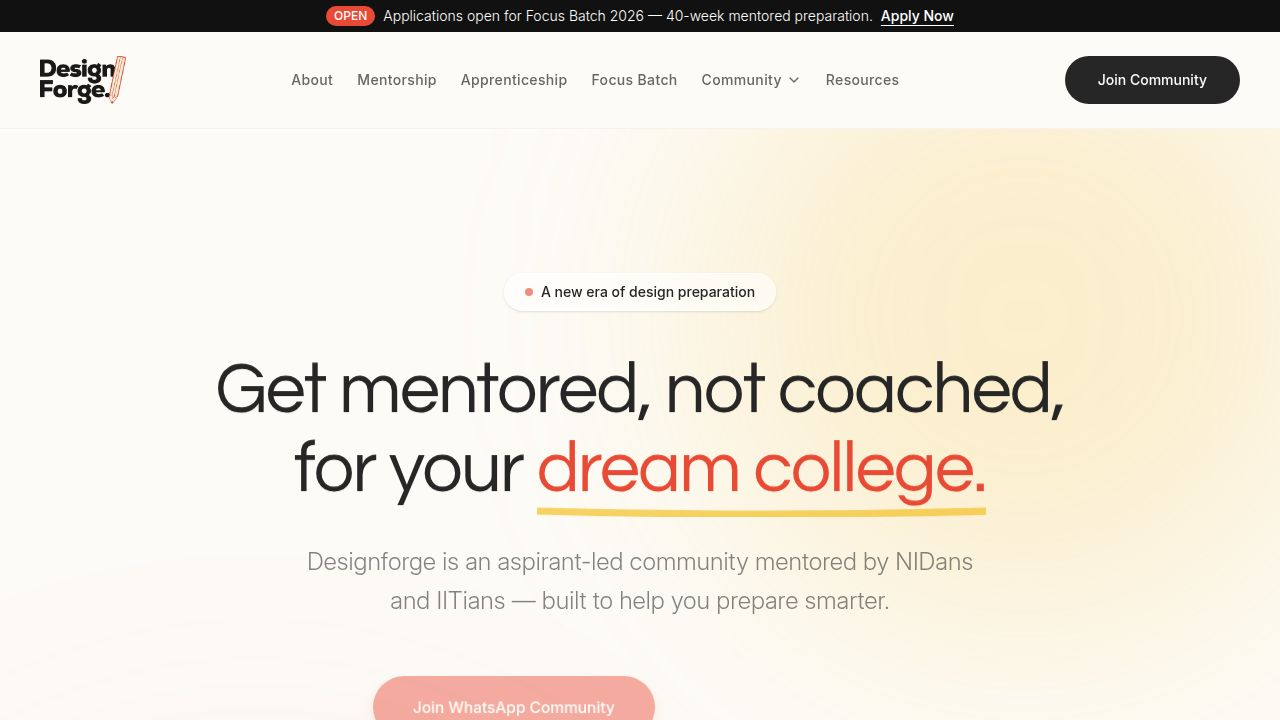
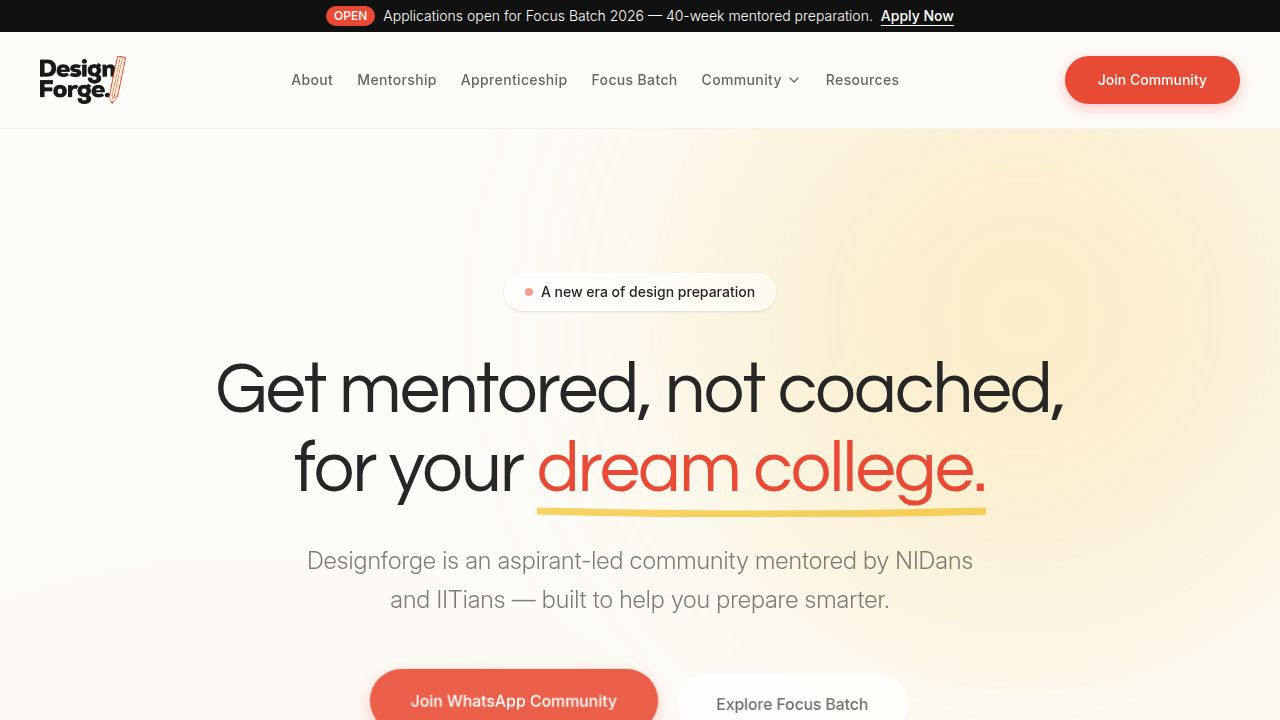
Standardize button styles and hierarchy across the entire website
Apply consistent primary, secondary, and tertiary button styling, including hover effects and shadows, across components like Hero, Navbar, Footer, CommunitySection, Mentorship, ApprenticeshipPage, and FocusBatchPage, utilizing updated Tailwind CSS classes and GSAP transition properties for enhanced visual consistency.

Replit-Commit-Author: Agent
Replit-Commit-Session-Id: 960f950a-f001-4535-bbb8-647dbf1b26bf
Replit-Commit-Checkpoint-Type: full_checkpoint
Replit-Commit-Event-Id: 58f8f077-2d3a-4387-85fd-d1df36ad89ca
Replit-Commit-Screenshot-Url: https://storage.googleapis.com/screenshot-production-us-central1/c1ce08fc-52cc-4179-98a9-23c730016ee2/960f950a-f001-4535-bbb8-647dbf1b26bf/aU89ibs
Replit-Helium-Checkpoint-Created: true

diff --git a/client/src/pages/apprenticeship-page.tsx b/client/src/pages/apprenticeship-page.tsx
@@ -80,10 +80,10 @@ export default function ApprenticeshipPage() {
                 </p>
                 
                 <div className="flex flex-col sm:flex-row items-start sm:items-center gap-4 mb-10">
-                  <Button size="lg" className="h-14 px-8 rounded-full text-base btn-bold w-full sm:w-auto shadow-lg shadow-primary/20 hover:-translate-y-1 transition-transform">
+                  <Button size="lg" className="h-14 px-8 rounded-full text-base btn-bold w-full sm:w-auto bg-primary text-primary-foreground hover:bg-primary/90 shadow-[0_4px_14px_0_rgb(255,107,107,0.39)] hover:shadow-[0_6px_20px_rgba(255,107,107,0.23)] hover:-translate-y-0.5 transition-all">
                     Explore Opportunities
                   </Button>
-                  <Button size="lg" variant="outline" className="h-14 px-8 rounded-full text-base bg-white w-full sm:w-auto hover:bg-foreground hover:text-white transition-colors">
+                  <Button size="lg" variant="outline" className="h-14 px-8 rounded-full text-base bg-white w-full sm:w-auto border-black/10 hover:bg-white hover:text-foreground shadow-sm hover:shadow-md hover:-translate-y-0.5 transition-all">
                     Join Upcoming Workshops
                   </Button>
                 </div>
@@ -436,7 +436,7 @@ export default function ApprenticeshipPage() {
                 <h2 className="text-3xl md:text-5xl font-heading text-[#262626] mb-4">Upcoming sessions & workshops</h2>
                 <p className="text-foreground/70 text-lg">A glimpse into the kinds of learning experiences being built through the apprenticeship ecosystem.</p>
               </div>
-              <Button variant="outline" className="hidden md:flex rounded-full px-6 h-12 bg-white hover:bg-foreground hover:text-white transition-colors">
+              <Button variant="outline" className="hidden md:flex rounded-full px-6 h-12 bg-white border-black/10 hover:bg-white hover:text-foreground shadow-sm hover:shadow-md hover:-translate-y-0.5 transition-all">
                 Join Upcoming Workshops <ArrowRight className="w-4 h-4 ml-2" />
               </Button>
             </div>
@@ -523,7 +523,7 @@ export default function ApprenticeshipPage() {
             </div>
             
             <div className="md:hidden mt-8 text-center">
-              <Button variant="outline" className="rounded-full px-6 h-14 text-base bg-white w-full shadow-sm">
+              <Button variant="outline" className="rounded-full px-6 h-14 text-base bg-white w-full border-black/10 hover:bg-white hover:text-foreground shadow-sm hover:shadow-md hover:-translate-y-0.5 transition-all">
                 Join Upcoming Workshops
               </Button>
             </div>
@@ -608,13 +608,13 @@ export default function ApprenticeshipPage() {
             </p>
             
             <div className="flex flex-col sm:flex-row items-center justify-center gap-4 mb-16">
-              <Button size="lg" className="w-full sm:w-auto h-14 px-8 rounded-full text-base btn-bold shadow-[0_0_40px_-10px_rgba(255,107,107,0.5)]">
+              <Button size="lg" className="w-full sm:w-auto h-14 px-8 rounded-full text-base btn-bold bg-primary text-primary-foreground hover:bg-primary/90 shadow-[0_4px_14px_0_rgb(255,107,107,0.39)] hover:shadow-[0_6px_20px_rgba(255,107,107,0.23)] hover:-translate-y-0.5 transition-all">
                 Apply for Apprenticeship
               </Button>
-              <Button size="lg" variant="outline" className="w-full sm:w-auto h-14 px-8 rounded-full text-base bg-white border-black/10 hover:bg-foreground hover:text-white backdrop-blur-sm">
+              <Button size="lg" variant="outline" className="w-full sm:w-auto h-14 px-8 rounded-full text-base bg-white border-black/10 hover:bg-white hover:text-foreground shadow-sm hover:shadow-md hover:-translate-y-0.5 transition-all">
                 Join Upcoming Workshops
               </Button>
-              <Button size="lg" variant="ghost" className="w-full sm:w-auto h-14 px-8 rounded-full text-base text-foreground/70 hover:text-foreground hover:bg-black/5">
+              <Button size="lg" variant="ghost" className="w-full sm:w-auto h-14 px-8 rounded-full text-base text-foreground/70 hover:text-foreground hover:bg-black/5 transition-colors">
                 Partner With Us
               </Button>
             </div>

diff --git a/client/src/pages/focus-batch-page.tsx b/client/src/pages/focus-batch-page.tsx
@@ -70,8 +70,8 @@ export default function FocusBatchPage() {
             </div>
 
             <div className="flex flex-col sm:flex-row items-center justify-center gap-4 mb-8">
-              <Button size="lg" className="w-full sm:w-auto text-lg px-8 h-14 rounded-full">Apply for Focus Batch</Button>
-              <Button size="lg" variant="outline" className="w-full sm:w-auto text-lg px-8 h-14 rounded-full">Join Waitlist</Button>
+              <Button size="lg" className="w-full sm:w-auto text-lg px-8 h-14 rounded-full btn-bold bg-primary text-primary-foreground hover:bg-primary/90 shadow-[0_4px_14px_0_rgb(255,107,107,0.39)] hover:shadow-[0_6px_20px_rgba(255,107,107,0.23)] hover:-translate-y-0.5 transition-all">Apply for Focus Batch</Button>
+              <Button size="lg" variant="outline" className="w-full sm:w-auto text-lg px-8 h-14 rounded-full bg-white border-black/10 hover:bg-white hover:text-foreground shadow-sm hover:shadow-md hover:-translate-y-0.5 transition-all">Join Waitlist</Button>
             </div>
             
             <p className="text-sm font-mono text-foreground/50 uppercase tracking-wider">
@@ -350,7 +350,7 @@ export default function FocusBatchPage() {
                   <p className="text-foreground/70 mb-8">
                     The full fee is ₹22,000. Students choosing one-time payment receive a ₹2,000 discount.
                   </p>
-                  <Button className="w-full text-lg h-12 rounded-xl group">
+                  <Button className="w-full text-lg h-12 rounded-xl group btn-bold bg-primary text-primary-foreground hover:bg-primary/90 shadow-[0_4px_14px_0_rgb(255,107,107,0.39)] hover:shadow-[0_6px_20px_rgba(255,107,107,0.23)] hover:-translate-y-0.5 transition-all">
                     Pay One Time
                     <ArrowRight className="ml-2 w-5 h-5 group-hover:translate-x-1 transition-transform" />
                   </Button>
@@ -377,7 +377,7 @@ export default function FocusBatchPage() {
                       <span className="font-bold">₹10,000</span>
                     </div>
                   </div>
-                  <Button variant="outline" className="w-full text-lg h-12 rounded-xl border-2">
+                  <Button variant="outline" className="w-full text-lg h-12 rounded-xl bg-white border-black/10 hover:bg-white hover:text-foreground shadow-sm hover:shadow-md hover:-translate-y-0.5 transition-all">
                     Choose Installments
                   </Button>
                 </CardContent>
@@ -431,8 +431,8 @@ export default function FocusBatchPage() {
             </p>
             
             <div className="flex flex-col sm:flex-row justify-center gap-4 mb-8">
-              <Button size="lg" variant="secondary" className="text-lg px-8 h-14 rounded-full text-primary hover:bg-white/90">Apply for Focus Batch</Button>
-              <Button size="lg" className="text-lg px-8 h-14 rounded-full border border-white/30 bg-transparent hover:bg-white/10 text-white">Join Waitlist</Button>
+              <Button size="lg" className="text-lg px-8 h-14 rounded-full btn-bold bg-white text-primary hover:bg-white/90 shadow-[0_4px_14px_0_rgba(255,255,255,0.39)] hover:shadow-[0_6px_20px_rgba(255,255,255,0.23)] hover:-translate-y-0.5 transition-all">Apply for Focus Batch</Button>
+              <Button size="lg" className="text-lg px-8 h-14 rounded-full border border-white/30 bg-transparent hover:bg-white/10 text-white transition-all hover:-translate-y-0.5">Join Waitlist</Button>
             </div>
             
             <p className="text-sm font-mono text-primary-foreground/60 mb-16 uppercase tracking-wider">

diff --git a/client/src/pages/mentorship.tsx b/client/src/pages/mentorship.tsx
@@ -74,10 +74,10 @@ export default function Mentorship() {
                 </p>
                 
                 <div className="flex flex-col sm:flex-row items-start sm:items-center gap-4 mb-10">
-                  <Button size="lg" className="h-14 px-8 rounded-full text-base btn-bold w-full sm:w-auto shadow-lg shadow-primary/20 hover:-translate-y-1 transition-transform" onClick={() => document.getElementById('admissions')?.scrollIntoView({ behavior: 'smooth' })}>
+                  <Button size="lg" className="h-14 px-8 rounded-full text-base btn-bold w-full sm:w-auto bg-primary text-primary-foreground hover:bg-primary/90 shadow-[0_4px_14px_0_rgb(255,107,107,0.39)] hover:shadow-[0_6px_20px_rgba(255,107,107,0.23)] hover:-translate-y-0.5 transition-all" onClick={() => document.getElementById('admissions')?.scrollIntoView({ behavior: 'smooth' })}>
                     Explore Admissions Tracks
                   </Button>
-                  <Button size="lg" variant="outline" className="h-14 px-8 rounded-full text-base bg-white/50 backdrop-blur-sm border-primary/20 w-full sm:w-auto hover:bg-white hover:text-primary transition-colors shadow-sm" onClick={() => document.getElementById('job-prep')?.scrollIntoView({ behavior: 'smooth' })}>
+                  <Button size="lg" variant="outline" className="h-14 px-8 rounded-full text-base bg-white/50 backdrop-blur-sm border-black/10 w-full sm:w-auto hover:bg-white hover:text-foreground shadow-sm hover:shadow-md hover:-translate-y-0.5 transition-all" onClick={() => document.getElementById('job-prep')?.scrollIntoView({ behavior: 'smooth' })}>
                     Explore Job Preparation
                   </Button>
                 </div>
@@ -506,13 +506,13 @@ export default function Mentorship() {
             </p>
             
             <div className="flex flex-col sm:flex-row items-center justify-center gap-4 flex-wrap">
-              <Button size="lg" className="w-full sm:w-auto h-14 px-8 rounded-full text-base btn-bold shadow-[0_10px_40px_-10px_rgba(255,107,107,0.4)] hover:-translate-y-1 transition-transform">
+              <Button size="lg" className="w-full sm:w-auto h-14 px-8 rounded-full text-base btn-bold bg-primary text-primary-foreground hover:bg-primary/90 shadow-[0_4px_14px_0_rgb(255,107,107,0.39)] hover:shadow-[0_6px_20px_rgba(255,107,107,0.23)] hover:-translate-y-0.5 transition-all">
                 Explore Admissions Mentorship
               </Button>
-              <Button size="lg" variant="outline" className="w-full sm:w-auto h-14 px-8 rounded-full text-base bg-white border-black/10 hover:bg-foreground hover:text-white backdrop-blur-sm shadow-sm hover:shadow-lg transition-all hover:-translate-y-1">
+              <Button size="lg" variant="outline" className="w-full sm:w-auto h-14 px-8 rounded-full text-base bg-white border-black/10 hover:bg-white hover:text-foreground shadow-sm hover:shadow-md hover:-translate-y-0.5 transition-all">
                 Explore Job Preparation
               </Button>
-              <Button size="lg" variant="ghost" className="w-full sm:w-auto h-14 px-8 rounded-full text-base text-foreground/70 hover:text-foreground hover:bg-black/5">
+              <Button size="lg" variant="ghost" className="w-full sm:w-auto h-14 px-8 rounded-full text-base text-foreground/70 hover:text-foreground hover:bg-black/5 transition-colors">
                 Talk to Us
               </Button>
             </div>

diff --git a/client/src/components/footer.tsx b/client/src/components/footer.tsx
@@ -14,10 +14,10 @@ export function Footer() {
             Prepare for design <br/><span className="text-primary italic">with absolute clarity.</span>
           </h2>
           <div className="flex flex-col sm:flex-row justify-center gap-4 w-full sm:w-auto">
-            <Button className="btn-bold btn-primary-pop rounded-full px-8 h-14 text-base w-full sm:w-auto text-white">
+            <Button className="btn-bold bg-primary text-primary-foreground hover:bg-primary/90 shadow-[0_4px_14px_0_rgb(255,107,107,0.39)] hover:shadow-[0_6px_20px_rgba(255,107,107,0.23)] hover:-translate-y-0.5 transition-all rounded-full px-8 h-14 text-base w-full sm:w-auto">
               Join WhatsApp Community
             </Button>
-            <Button className="btn-bold bg-white/10 text-white hover:bg-white/20 border border-white/20 rounded-full px-8 h-14 text-base w-full sm:w-auto backdrop-blur-sm">
+            <Button className="btn-bold bg-white/10 text-white hover:bg-white/20 border border-white/20 rounded-full px-8 h-14 text-base w-full sm:w-auto backdrop-blur-sm transition-all hover:-translate-y-0.5">
               Explore Focus Batch
             </Button>
           </div>

diff --git a/client/src/components/hero.tsx b/client/src/components/hero.tsx
@@ -130,10 +130,10 @@ export function Hero() {
           </p>
           
           <div className="flex flex-col sm:flex-row gap-4 items-center justify-center w-full">
-            <Button className="hero-btn rounded-full h-16 px-10 btn-bold btn-primary-pop text-base w-full sm:w-auto">
+            <Button className="hero-btn rounded-full h-16 px-10 btn-bold bg-primary text-primary-foreground hover:bg-primary/90 text-base w-full sm:w-auto shadow-[0_4px_14px_0_rgb(255,107,107,0.39)] hover:shadow-[0_6px_20px_rgba(255,107,107,0.23)] hover:-translate-y-0.5 transition-all">
               Join WhatsApp Community
             </Button>
-            <Button className="hero-btn rounded-full h-16 px-10 btn-bold bg-white text-foreground border border-black/5 hover:border-black/10 text-base shadow-sm w-full sm:w-auto">
+            <Button className="hero-btn rounded-full h-16 px-10 btn-bold bg-white text-foreground border border-black/10 hover:bg-black/5 text-base shadow-sm hover:shadow-md hover:-translate-y-0.5 transition-all w-full sm:w-auto">
               Explore Focus Batch
             </Button>
           </div>

diff --git a/client/src/components/navbar.tsx b/client/src/components/navbar.tsx
@@ -71,7 +71,7 @@ export function Navbar() {
           </nav>
           
           <div className="flex items-center gap-4">
-            <Button className="hidden md:flex rounded-full px-6 md:px-8 btn-bold bg-foreground text-background hover:bg-primary transition-colors text-xs md:text-sm font-medium h-10 md:h-12">Join Community</Button>
+            <Button className="hidden md:flex rounded-full px-6 md:px-8 btn-bold bg-primary text-primary-foreground hover:bg-primary/90 transition-colors text-xs md:text-sm font-medium h-10 md:h-12 shadow-[0_4px_14px_0_rgb(255,107,107,0.39)] hover:shadow-[0_6px_20px_rgba(255,107,107,0.23)] hover:-translate-y-0.5">Join Community</Button>
             
             <Sheet open={isOpen} onOpenChange={setIsOpen}>
               <SheetTrigger asChild className="lg:hidden">

diff --git a/client/src/components/community-section.tsx b/client/src/components/community-section.tsx
@@ -73,7 +73,7 @@ export function CommunitySection() {
             </ul>
 
             <div className="comm-text">
-              <Button size="lg" className="btn-bold btn-primary-pop rounded-full px-10 h-16 text-base w-full sm:w-auto">
+              <Button size="lg" className="btn-bold bg-primary text-primary-foreground hover:bg-primary/90 shadow-[0_4px_14px_0_rgb(255,107,107,0.39)] hover:shadow-[0_6px_20px_rgba(255,107,107,0.23)] hover:-translate-y-0.5 transition-all rounded-full px-10 h-16 text-base w-full sm:w-auto">
                 Join WhatsApp Community
               </Button>
             </div>

diff --git a/client/src/components/focus-batch.tsx b/client/src/components/focus-batch.tsx
@@ -117,7 +117,7 @@ export function FocusBatch() {
                 </Select>
               </div>
               
-              <Button className="w-full btn-bold btn-primary-pop h-16 mt-6 rounded-full text-base">
+              <Button className="w-full btn-bold bg-primary text-primary-foreground hover:bg-primary/90 transition-colors h-16 mt-6 rounded-full text-base shadow-[0_4px_14px_0_rgb(255,107,107,0.39)] hover:shadow-[0_6px_20px_rgba(255,107,107,0.23)] hover:-translate-y-0.5">
                 Submit Interest
               </Button>
             </form>
